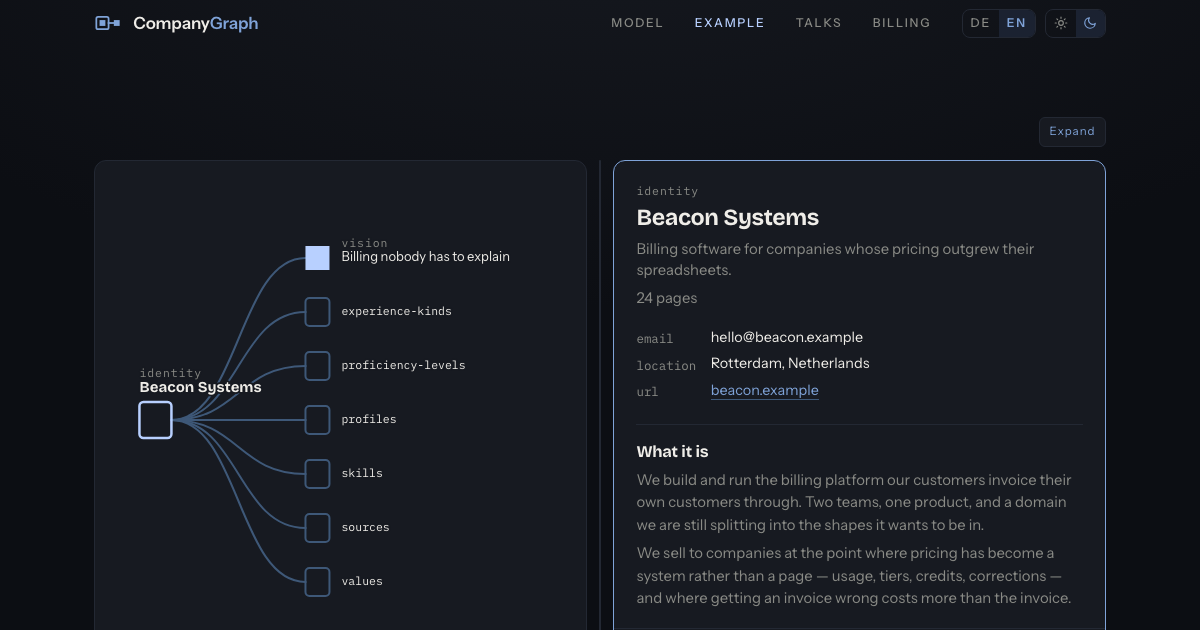
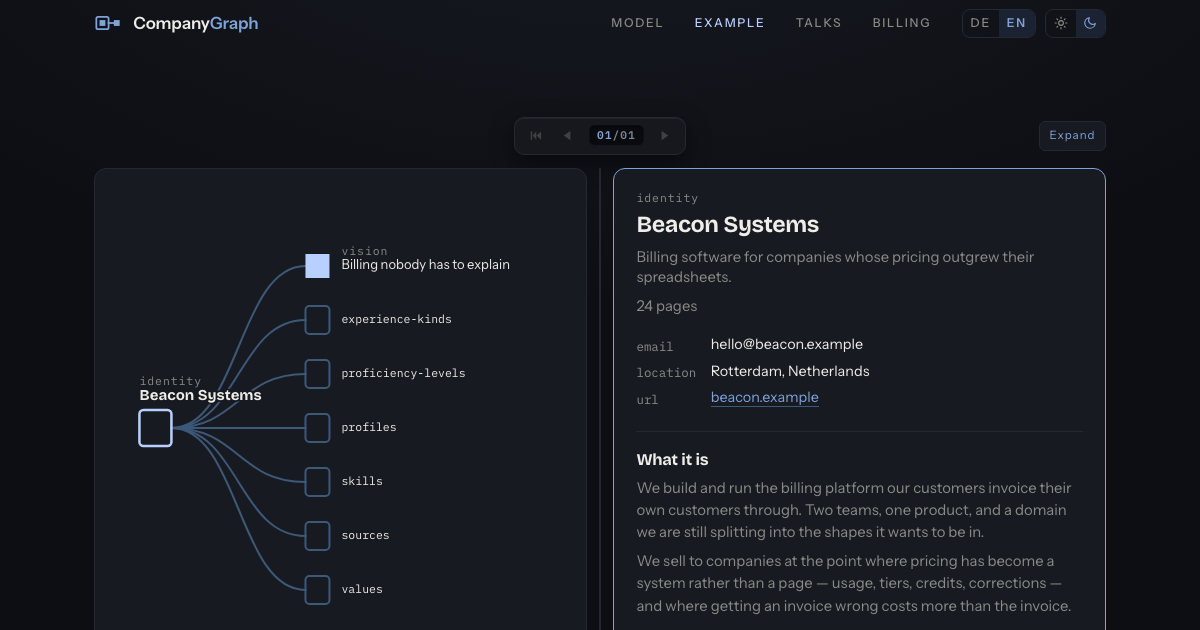
Design v0.40.0: the stage has a transport
The model and example pages' stage now carries the deck footer's transport between the
path line and Expand: first, back, a readout of where the visitor is in this visit's trail,
next, and the place each side goes to beside it. Left, Right and Home are the deck's keys.
It acts on the browser's history and on nothing else, so it agrees with the browser's own
buttons. The script builds the control itself, so nothing in either page's markup changes;
the model and example cards are re-rendered because their pages link the stage, and the
head row they show has changed.

Verified: npm run design:check, npm run og:check and npm run verify pass against a served copy.

diff --git a/stage.js b/stage.js
@@ -40,7 +40,15 @@
   var STR = {
     out:   { en:"refers to",   de:"Verweist auf" },
     "in":  { en:"referred by", de:"Verwiesen von" },
-    pages: { en:"pages",       de:"Seiten" }
+    pages: { en:"pages",       de:"Seiten" },
+    // the history control, which the script builds and so labels itself
+    trail: { en:"Where you have been on this page", de:"Wo Sie auf dieser Seite waren" },
+    start: { en:"Back to where the page opened",    de:"Zurück zum Anfang" },
+    back:  { en:"Back",  de:"Zurück" },
+    next:  { en:"Next",  de:"Weiter" },
+    backTo:{ en:"Back to ",    de:"Zurück zu " },
+    nextTo:{ en:"Forward to ", de:"Weiter zu " },
+    folder:{ en:"folder", de:"Ordner" }
   };
   function lang(){ return document.documentElement.lang === "de" ? "de" : "en"; }
   function t(k){ return STR[k][lang()]; }
@@ -376,6 +384,115 @@
   // the page at all.
   var stageHead = document.getElementById("stagehead"), stageEl = document.getElementById("stage");
   var stageHome = stageHead.parentNode, stageMark = document.createComment("stage");
+
+  // ── the history ───────────────────────────────────────────────────────────────────────
+  // Every focus but the root is a place with an address, so the browser's Back and Forward
+  // already move the focus; what the page lacked was a control that says so. This is the
+  // deck's transport, cut to the head row: first, back, a readout, next. It acts on the
+  // browser's history and on nothing else — back() and forward() and go() — and the
+  // hashchange listener below turns each into a focus, so this control, the browser's own
+  // buttons and the keyboard can never disagree about where the visitor is.
+  //
+  // What the browser does not tell a page is whether there is anywhere to go, so the stage
+  // keeps a trail of its own: the addresses it has focused on this visit, and a position in
+  // them. A click pushes; a hashchange that lands on the neighbor behind or ahead moves the
+  // position; the first entry is the page as it opened, and Back from it would leave the
+  // page, which is the browser's Back to give and not this one's. The root has no address
+  // and is written with replaceState, so a click on it replaces the entry it was clicked
+  // from, in the trail as in the browser.
+  //
+  // Built here rather than in the page's markup so that a page takes it with the script and
+  // nothing else — the same reason the band eyebrows are the script's. aria-disabled, not
+  // disabled: a real disabled state drops the focus on the floor the moment Next runs out of
+  // road, which is exactly when the keyboard is on it.
+  var trail = [], pos = -1, pending = null, expect = -1;
+  function ctl(cls, svgBody){
+    var b = document.createElement("button"); b.type = "button"; b.className = cls;
+    b.innerHTML = '<svg viewBox="0 0 24 24" aria-hidden="true">' + svgBody + '</svg>';
+    return b;
+  }
+  // The slab holds the instrument; the two names beside it are the page's own text, in
+  // fixed slots so the instrument never moves as the names change length. Each is what the
+  // button nearest it would do, and the buttons already say so to a screen reader, so the
+  // names are hidden from it rather than read twice.
+  var hist = document.createElement("div"); hist.className = "history"; hist.setAttribute("role", "group");
+  var slab = document.createElement("div"); slab.className = "slab";
+  var hWas = document.createElement("span"); hWas.className = "step was"; hWas.setAttribute("aria-hidden", "true");
+  var hWill = document.createElement("span"); hWill.className = "step will"; hWill.setAttribute("aria-hidden", "true");
+  var hFirst = ctl("first", '<rect x="4.4" y="5" width="2.3" height="14" rx="1"/><path d="M13.2 5.4v13.2L7.6 12z"/><path d="M21 5.4v13.2L13.6 12z"/>');
+  var hBack  = ctl("back",  '<path d="M16.6 4.6v14.8L6 12z"/>');
+  var hNext  = ctl("next",  '<path d="M7.4 4.6v14.8L18 12z"/>');
+  var hLcd = document.createElement("div"); hLcd.className = "lcd"; hLcd.setAttribute("aria-hidden", "true");
+  hLcd.innerHTML = '<b class="cur">01</b><span class="sep">/</span><span class="tot">01</span>';
+  slab.appendChild(hFirst); slab.appendChild(hBack); slab.appendChild(hLcd); slab.appendChild(hNext);
+  hist.appendChild(hWas); hist.appendChild(slab); hist.appendChild(hWill);
+  stageHead.insertBefore(hist, expandBtn);
+  function able(b, ok){ b.setAttribute("aria-disabled", ok ? "false" : "true"); }
+  function trailNode(i){ return nodeById(trail[i]) || nRoot(); }
+  function trailName(i){ return trailNode(i).label; }
+  // The kind of thing a step is, the way the figure's eyebrow says it: an entity's type, the
+  // word for a folder, and for the root the type of the entity it carries, when it does.
+  function trailType(i){
+    var n = trailNode(i);
+    if (n.kind === "entity") return n.entity.type;
+    if (n.kind === "folder") return t("folder");
+    return n.entity ? n.entity.type : "";
+  }
+  function setStep(el, i){
+    el.innerHTML = "";
+    if (i < 0) return;
+    var k = document.createElement("i"); k.className = "k"; k.textContent = trailType(i);
+    var b = document.createElement("b"); b.textContent = trailName(i);
+    el.appendChild(k); el.appendChild(b); el.title = trailName(i);
+  }
+  function renderHist(){
+    var canBack = pos > 0, canNext = pos < trail.length - 1;
+    able(hFirst, canBack); able(hBack, canBack); able(hNext, canNext);
+    hist.setAttribute("aria-label", t("trail"));
+    hFirst.setAttribute("aria-label", t("start")); hFirst.title = canBack ? t("start") : "";
+    hBack.setAttribute("aria-label", canBack ? t("backTo") + trailName(pos - 1) : t("back")); hBack.title = canBack ? t("backTo") + trailName(pos - 1) : "";
+    hNext.setAttribute("aria-label", canNext ? t("nextTo") + trailName(pos + 1) : t("next")); hNext.title = canNext ? t("nextTo") + trailName(pos + 1) : "";
+    setStep(hWas, canBack ? pos - 1 : -1); setStep(hWill, canNext ? pos + 1 : -1);
+    hLcd.firstChild.textContent = String(pos + 1).padStart(2, "0");
+    hLcd.lastChild.textContent = String(trail.length).padStart(2, "0");
+  }
+  function offRoad(ev){ return ev.currentTarget.getAttribute("aria-disabled") === "true"; }
+  hFirst.addEventListener("click", function(ev){ if (!offRoad(ev) && pos > 0) { expect = 0; history.go(-pos); } });
+  hBack.addEventListener("click", function(ev){ if (!offRoad(ev)) history.back(); });
+  hNext.addEventListener("click", function(ev){ if (!offRoad(ev)) history.forward(); });
+  // The deck's keys: Left is back, Right is next, Home is first. The deck binds them to the
+  // document and nothing else lives there; a prose page has a header, a language control,
+  // links and the drag handle, so here they yield to anything that already uses the key —
+  // a handler that prevented the default, a field being typed in — and to any modifier,
+  // because Alt-Left is the browser's own Back and Cmd-Left goes to the start of a line.
+  document.addEventListener("keydown", function(ev){
+    if (ev.defaultPrevented || ev.altKey || ev.ctrlKey || ev.metaKey || ev.shiftKey) return;
+    var el = ev.target;
+    if (el && el.closest && el.closest("input, textarea, select, [contenteditable=''], [contenteditable='true']")) return;
+    if (ev.key === "ArrowLeft") { if (pos > 0) { history.back(); ev.preventDefault(); } }
+    else if (ev.key === "ArrowRight") { if (pos < trail.length - 1) { history.forward(); ev.preventDefault(); } }
+    else if (ev.key === "Home") { if (pos > 0) { expect = 0; history.go(-pos); ev.preventDefault(); } }
+  });
+  // The trail learns from the address, never from a click directly: whichever way the
+  // address moved — this control, the browser's buttons, a typed hash — the same reading
+  // applies. A click's own hashchange is announced through `pending` so it is not read as
+  // a step back onto an entry that happens to carry the same address. A jump of more than
+  // one step — first, or the browser's own long-press list — lands on no neighbor: our own
+  // jump says where it is going through `expect`, and any other is read as the nearest
+  // entry that carries the address, because a place the trail holds is never a new place.
+  // Only an address the trail has never seen is pushed.
+  function trailMove(key){
+    if (pending !== null && pending === key) { pending = null; return; }
+    if (expect >= 0) { var e = expect; expect = -1; if (trail[e] === key) { pos = e; return; } }
+    if (pos > 0 && trail[pos - 1] === key) { pos--; return; }
+    if (pos < trail.length - 1 && trail[pos + 1] === key) { pos++; return; }
+    if (trail[pos] === key) return;
+    for (var d = 2; d < trail.length; d++) {
+      if (pos - d >= 0 && trail[pos - d] === key) { pos -= d; return; }
+      if (pos + d < trail.length && trail[pos + d] === key) { pos += d; return; }
+    }
+    trail = trail.slice(0, pos + 1); trail.push(key); pos = trail.length - 1;
+  }
   var reduce = window.matchMedia ? window.matchMedia("(prefers-reduced-motion: reduce)") : null;
   var first = true;
   function dur(){ return (first || (reduce && reduce.matches)) ? 0 : 400; }
@@ -620,7 +737,8 @@
   });
 
   // ── focus ─────────────────────────────────────────────────────────────────────────────
-  function focus(n){
+  function focus(n, fromAddress){
+    var was = focused;
     focused = n;
     var segs = pathOf(n);
     pathLine.innerHTML = segs.map(function(s, i){
@@ -632,10 +750,16 @@
     // on the root from halfway down a path — and the share card, which asks for a state by
     // URL and nothing else, had no way to ask for an opened folder at all.
     var hash = n.kind === "root" ? "" : "#" + n.id;
+    var key = n.kind === "root" ? "" : n.id;
+    if (!fromAddress && pos >= 0 && (!was || was.id !== n.id)) {
+      if (hash) { trail = trail.slice(0, pos + 1); trail.push(key); pos = trail.length - 1; pending = key; }
+      else trail[pos] = key;
+    }
     if (hash) location.hash = hash;
     else if (location.hash) { try { history.replaceState(null, "", location.pathname + location.search); } catch (err) { location.hash = ""; } }
     render();
     showCard(n);
+    renderHist();
   }
 
   document.getElementById("recenter").addEventListener("click", function(){
@@ -645,7 +769,7 @@
 
   // The site's language toggle rewrites every [data-de] node and sets <html lang>; the two
   // eyebrows and the folder card are built here, after that pass, so they follow the flag.
-  new MutationObserver(function(){ if (focused) { render(); showCard(focused); } })
+  new MutationObserver(function(){ if (focused) { render(); showCard(focused); renderHist(); } })
     .observe(document.documentElement, { attributes:true, attributeFilter:["lang"] });
 
   // ── the divider ───────────────────────────────────────────────────────────────────────
@@ -747,12 +871,15 @@
     // does one naming nothing this page holds: focus() writes a hash for every node but the
     // root, so a bare or unrecognized hash is exactly what the root looks like.
     var n = nodeById(id);
-    if (!n) { if (!focused || focused.kind !== "root") focus(nRoot()); return; }
-    if (!focused || focused.id !== id) focus(n);
+    trailMove(n ? id : "");
+    if (!n) { if (!focused || focused.kind !== "root") focus(nRoot(), true); else renderHist(); return; }
+    if (!focused || focused.id !== id) focus(n, true); else renderHist();
   });
 
   var initial = decodeURIComponent(location.hash.slice(1));
-  focus(nodeById(initial) || nRoot());
+  var opener = nodeById(initial) || nRoot();
+  trail = [opener.kind === "root" ? "" : opener.id]; pos = 0;
+  focus(opener, true);
   first = false;
 
   // A link may ask for the stage expanded — blust.ch's timeline does, for a skill — with

diff --git a/stage.css b/stage.css
@@ -9,7 +9,11 @@
    come from the page: this file names them, it does not define them. */
   /* The path line and Expand share a row: the control belongs beside the thing it acts on,
      not tucked in the card's footer — Expand opens the whole stage, not just the card. */
-  .stagehead{display:flex; align-items:baseline; justify-content:space-between; gap:1rem}
+  /* Three columns: the path, the history, Expand. The middle one is the transport the
+     script builds, and it sits over the seam between canvas and card; in the dialog Expand
+     is turned into nothing and the right column stays, so the control does not move. */
+  .stagehead{display:grid; grid-template-columns:1fr auto 1fr; align-items:center; gap:1rem}
+  .stagehead .expand{justify-self:end}
   .path{min-height:1.4em; font-size:.8rem; letter-spacing:.06em; color:var(--dim)}
   .path b{color:var(--c-firm); font-weight:600}
   /* Three columns: canvas, the handle between them, details. The details width is a custom
@@ -58,6 +62,35 @@
           color:var(--c-mid); border:1px solid var(--rule); border-radius:6px;
           padding:.35rem .6rem; cursor:pointer; white-space:nowrap}
   .expand:hover, .expand:focus-visible{border-color:var(--c-mid)}
+  /* The history: the deck footer's transport, cut to the head row — its slab, its LCD and
+     its buttons, in the tokens the deck chrome already puts on every page. The readout is
+     where the visitor is in this visit's trail, the way the deck's is the slide it is on.
+     The buttons are the deck's glyphs at the row's size; a side with nowhere to go fades the
+     way the deck's does, and stays focusable for the reason stage.js gives. */
+  .history{display:inline-flex; align-items:center; gap:.7rem}
+  .history .slab{display:inline-flex; align-items:center; gap:.3rem; background:var(--slab); border:1px solid var(--rule);
+                 border-radius:10px; padding:.25rem .35rem; box-shadow:inset 0 1px 0 var(--deck-lift), 0 8px 22px var(--deck-drop)}
+  /* The names beside the slab: where Back goes on the left, where Next goes on the right,
+     in the page's dim text with a fixed slot each, so the instrument between them stays put
+     whatever the names measure. Empty when a side has nowhere to go; the slot stays. */
+  .history .step{width:11rem; display:flex; flex-direction:column; gap:.1rem; line-height:1.2; overflow:hidden}
+  .history .step .k, .history .step b{overflow:hidden; text-overflow:ellipsis; white-space:nowrap}
+  .history .step .k{font-style:normal; font-family:"Plex Mono",monospace; font-size:.66rem; letter-spacing:.08em; color:var(--dim); min-height:.8em}
+  .history .step b{font-size:.8rem; font-weight:500; color:var(--ink)}
+  .history .was{text-align:right}
+  @media (max-width:900px){ .history .step{display:none} }
+  .history button{display:grid; place-items:center; width:28px; height:28px; padding:0; border:0; border-radius:7px;
+                  background:none; color:var(--dim); cursor:pointer}
+  .history button svg{width:15px; height:15px; display:block; fill:currentColor}
+  .history button:hover{color:var(--ink); background:var(--deck-hover)}
+  .history button:focus-visible{outline:2px solid var(--c-mid); outline-offset:2px; color:var(--ink)}
+  .history button[aria-disabled="true"]{opacity:.35; cursor:default}
+  .history button[aria-disabled="true"]:hover{color:var(--dim); background:none}
+  .history .lcd{display:flex; align-items:center; margin:0 .15rem; padding:.3rem .5rem; border-radius:6px; background:var(--lcd);
+                box-shadow:inset 0 1px 3px var(--lcd-inset), inset 0 0 0 1px var(--lcd-glow);
+                font-family:"Plex Mono",monospace; font-size:.7rem; font-weight:600; letter-spacing:.09em; line-height:1;
+                color:var(--lcd-ink); white-space:nowrap}
+  .history .lcd .sep, .history .lcd .tot{color:var(--lcd-faint)}
   .cbody .eyebrow{font-family:"Plex Mono",monospace; font-size:.72rem; letter-spacing:.08em; color:var(--dim); word-break:break-all}
   .cbody h3{margin-top:.35rem; font-family:"Bricolage Grotesque", ui-sans-serif, system-ui, sans-serif; font-weight:700; letter-spacing:-.02em; font-size:1.45rem; line-height:1.1}
   .cbody .tag{margin-top:.55rem; color:var(--dim); line-height:1.4}
